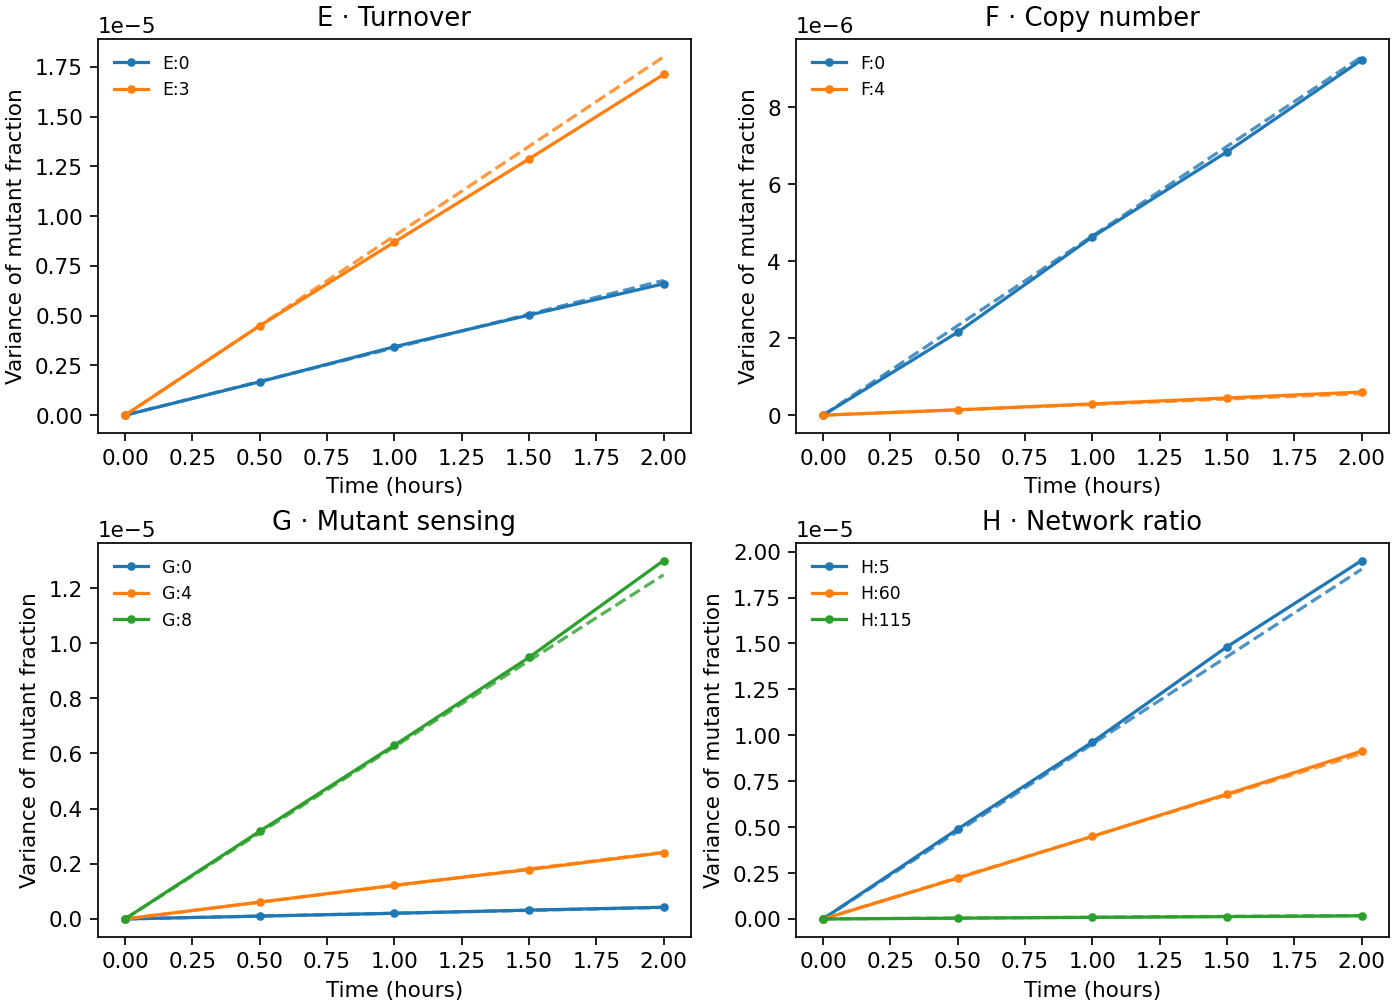
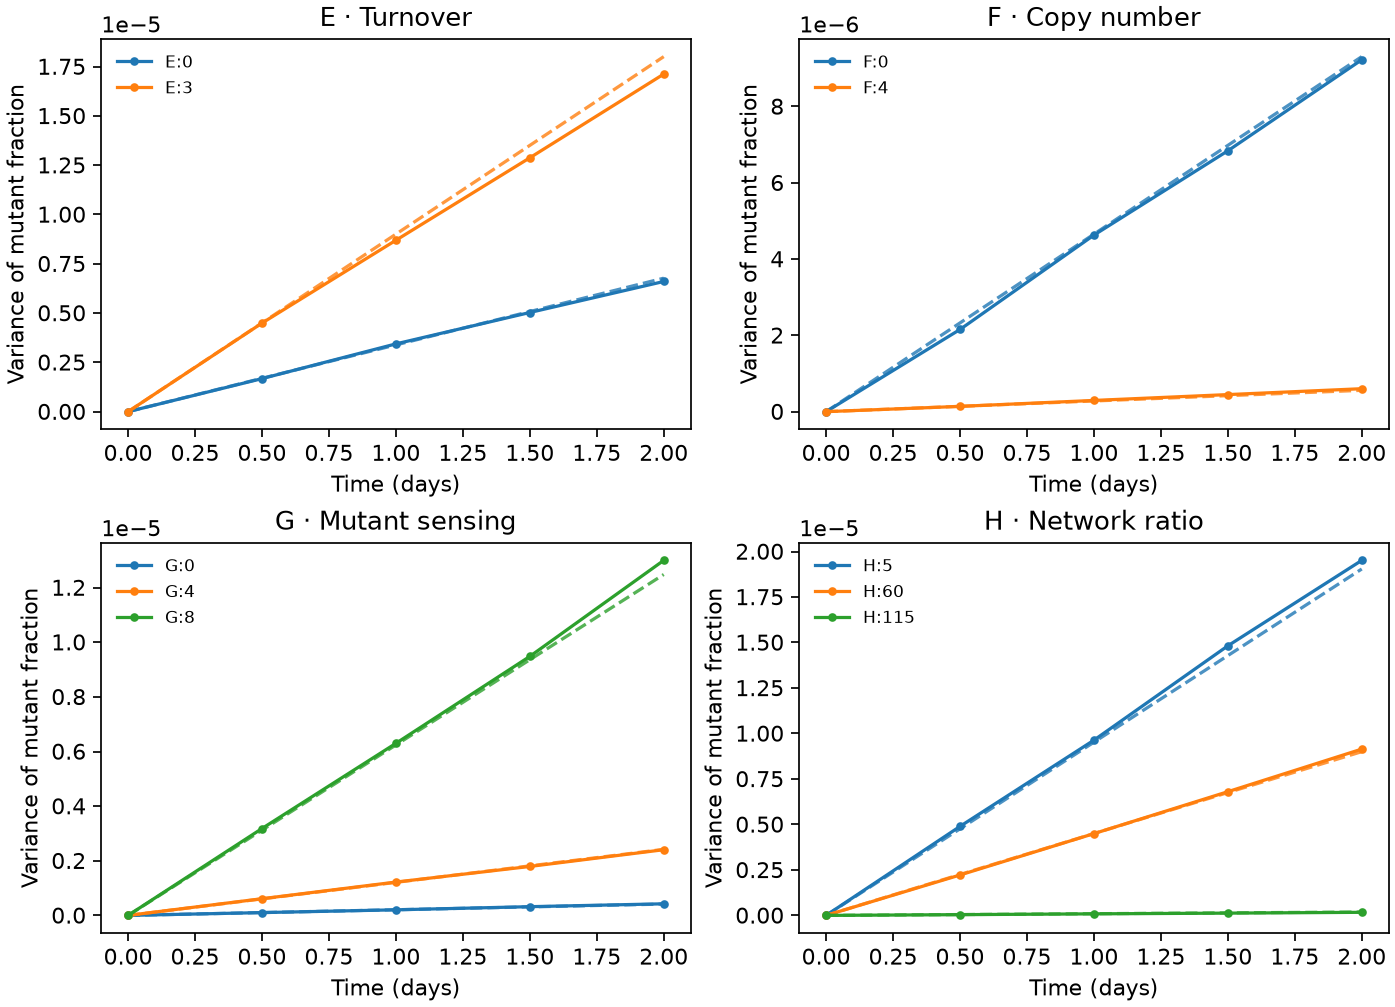
Label chapter 20 time in days, not hours
The authors' simulator counts time in days (TFinal comment, the analysis
notebooks label the axis "Time, (days)", and the paper quotes the
variance growth in day^-1 with mu = 0.023 per day). The example called
the same numbers hours in the manifest, the CSV headers, the plot axis,
the README and the guide page. Values are unchanged; only names and
labels change (hour -> day, end_hour -> end_day,
archived_slope_0_100h -> archived_slope_0_100d, early_hours ->
early_days). The figure is redrawn from the shipped CSV files.

Claude-Session: https://claude.ai/code/session_01Sh6qH1Noyv64tC6dGfSU2Q

diff --git a/examples/mtdna_network/study.py b/examples/mtdna_network/study.py
@@ -62,13 +62,13 @@ def predicted_slope(counts, mu):
     return 2 * mu * fs * h * (1 - h) / n
 
 
-def sample(row, hours, n, seed, threads):
+def sample(row, days, n, seed, threads):
     initial, params = parameters(row)
     model = build(initial, **params)
     result = crn.ensemble(
         model,
-        end=float(hours[-1]),
-        report_times=list(hours),
+        end=float(days[-1]),
+        report_times=list(days),
         seed=seed,
         replicates=n,
         threads=threads,
@@ -82,7 +82,7 @@ def sample(row, hours, n, seed, threads):
     mutant = paths[..., 1] + paths[..., 3]
     h = np.divide(mutant, totals, out=np.full_like(totals, np.nan), where=totals > 0)
     influence = (h - np.nanmean(h, axis=0)) ** 2
-    w = np.asarray(hours) / np.dot(hours, hours)
+    w = np.asarray(days) / np.dot(days, days)
     path_slope = influence @ w
     prediction = predicted_slope(initial, params["mu"])
     rng = np.random.default_rng(seed + 40000)
@@ -97,7 +97,7 @@ def sample(row, hours, n, seed, threads):
     lo, hi = np.quantile(bootstrap, [0.01 / 6, 1 - 0.01 / 6])
     trace = pd.DataFrame(
         {
-            "hour": hours,
+            "day": days,
             "variance": np.nanvar(h, axis=0),
             "mean_copies": totals.mean(axis=0),
             "mean_heteroplasmy": np.nanmean(h, axis=0),
@@ -125,11 +125,11 @@ def compare_archive(sweep):
         return sweep
     rows = []
     for (panel, index), data in pd.read_csv(path).groupby(["panel", "index"]):
-        series = data.query("0 <= hour <= 100")
-        slopes = np.dot(series.hour, series.variance) / np.dot(series.hour, series.hour)
+        series = data.query("0 <= day <= 100")
+        slopes = np.dot(series.day, series.variance) / np.dot(series.day, series.day)
         rows.append((panel, index, slopes))
     return sweep.merge(
-        pd.DataFrame(rows, columns=["panel", "index", "archived_slope_0_100h"]),
+        pd.DataFrame(rows, columns=["panel", "index", "archived_slope_0_100d"]),
         how="left",
     )
 
@@ -151,13 +151,13 @@ def campaign(size, threads, output):
                 {**common, "n": 0, "equation13": predicted_slope(init, settings["mu"])}
             )
             continue
-        hours = np.array(M["early_hours"])
+        days = np.array(M["early_days"])
         n = 256 if size == "quick" else 2000
         if size == "quick":
-            hours = hours / 8
+            days = days / 8
         if size == "full" and key not in M["primary"] and settings["beta"] >= 100:
             # Prespecified effort for the very fast switching control sweep.
-            hours *= min(1.0, 100.0 / settings["beta"])
+            days *= min(1.0, 100.0 / settings["beta"])
             n = 1024
         file = (
             output
@@ -170,16 +170,16 @@ def campaign(size, threads, output):
             trace = pd.read_csv(file)
             row_summary = json.loads(note.read_text())
         else:
-            trace, row_summary = sample(row, hours, n, M["seed"] + i, threads)
+            trace, row_summary = sample(row, days, n, M["seed"] + i, threads)
             tmp = file.with_suffix(".tmp")
             trace.to_csv(tmp, index=False)
             tmp.replace(file)
             tmp = note.with_suffix(".tmp")
             tmp.write_text(json.dumps(row_summary, sort_keys=True))
             tmp.replace(note)
-        summaries.append({**common, **row_summary, "end_hour": float(hours[-1])})
+        summaries.append({**common, **row_summary, "end_day": float(days[-1])})
         print(
-            f"{key} n={n} at {hours[-1]:g} h, slope ratio {row_summary['ratio']:.3f}",
+            f"{key} n={n} at {days[-1]:g} d, slope ratio {row_summary['ratio']:.3f}",
             flush=True,
         )
         traces.append(trace.assign(**common))
@@ -222,18 +222,18 @@ def plot(output, folder):
                 continue
             slope = table.loc[table.condition == condition, "equation13"].iloc[0]
             line = ax.plot(
-                group.hour, group.variance, marker="o", ms=3, label=condition
+                group.day, group.variance, marker="o", ms=3, label=condition
             )[0]
             ax.plot(
-                group.hour,
-                group.hour * slope,
+                group.day,
+                group.day * slope,
                 color=line.get_color(),
                 linestyle="--",
                 alpha=0.8,
             )
         ax.set(
             title=f"{panel} · {names[panel]}",
-            xlabel="Time (hours)",
+            xlabel="Time (days)",
             ylabel="Variance of mutant fraction",
         )
         if ax.lines:

diff --git a/examples/mtdna_network/fetch.py b/examples/mtdna_network/fetch.py
@@ -115,7 +115,7 @@ def main():
             (ROOT / "reference-variance.csv").open("w", newline="") as f,
         ):
             writer = csv.writer(f, lineterminator="\n")
-            writer.writerow(["panel", "index", "hour", "variance"])
+            writer.writerow(["panel", "index", "day", "variance"])
             for result in pool.map(summaries, rows):
                 writer.writerows(result)
 

diff --git a/examples/mtdna_network/README.md b/examples/mtdna_network/README.md
@@ -11,8 +11,8 @@ python examples/mtdna_network/study.py --figures docs/guide/img/mtdna_network
 
 The condition table is extracted by `fetch.py`. Add
 `--online-summaries` to also regenerate the source variance series.
-The fresh slope normally uses the first 2 hours, while the archived
-slope uses the first 100 hours. Figure 2H varies the ratio of fusion to
+The fresh slope normally uses the first 2 days, while the archived
+slope uses the first 100 days. Figure 2H varies the ratio of fusion to
 fission at fixed magnitude. Figure S3D varies the magnitude at fixed
 ratio. Both sweeps use the published initial counts. Selected extreme
 switching magnitudes use a shorter reported window and 1,024 paths.

diff --git a/docs/guide/20-mtdna-network.md b/docs/guide/20-mtdna-network.md
@@ -45,7 +45,7 @@ through the origin. Resample whole paths for an interval on the slope.
 
 The shipped comparisons include the turnover, copy-number, mutant-sensing
 and fusion/fission sweeps from Figures 2E–H, plus the rate-magnitude sweep
-from Figure S3D. The archived 0–100 hour summary and the fresh short-time
+from Figure S3D. The archived 0–100 day summary and the fresh short-time
 slopes answer related questions on different time windows.
 
 Run `python examples/mtdna_network/study.py --size quick` for one short
